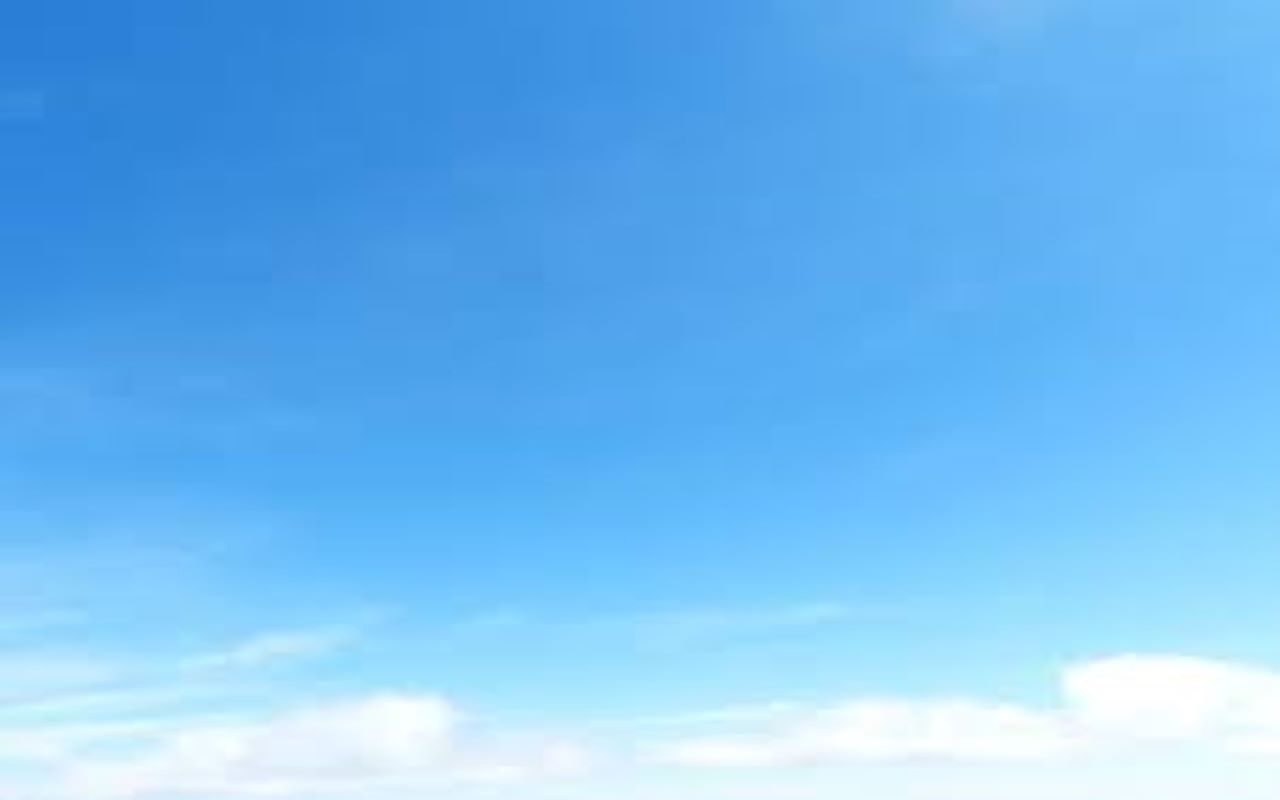
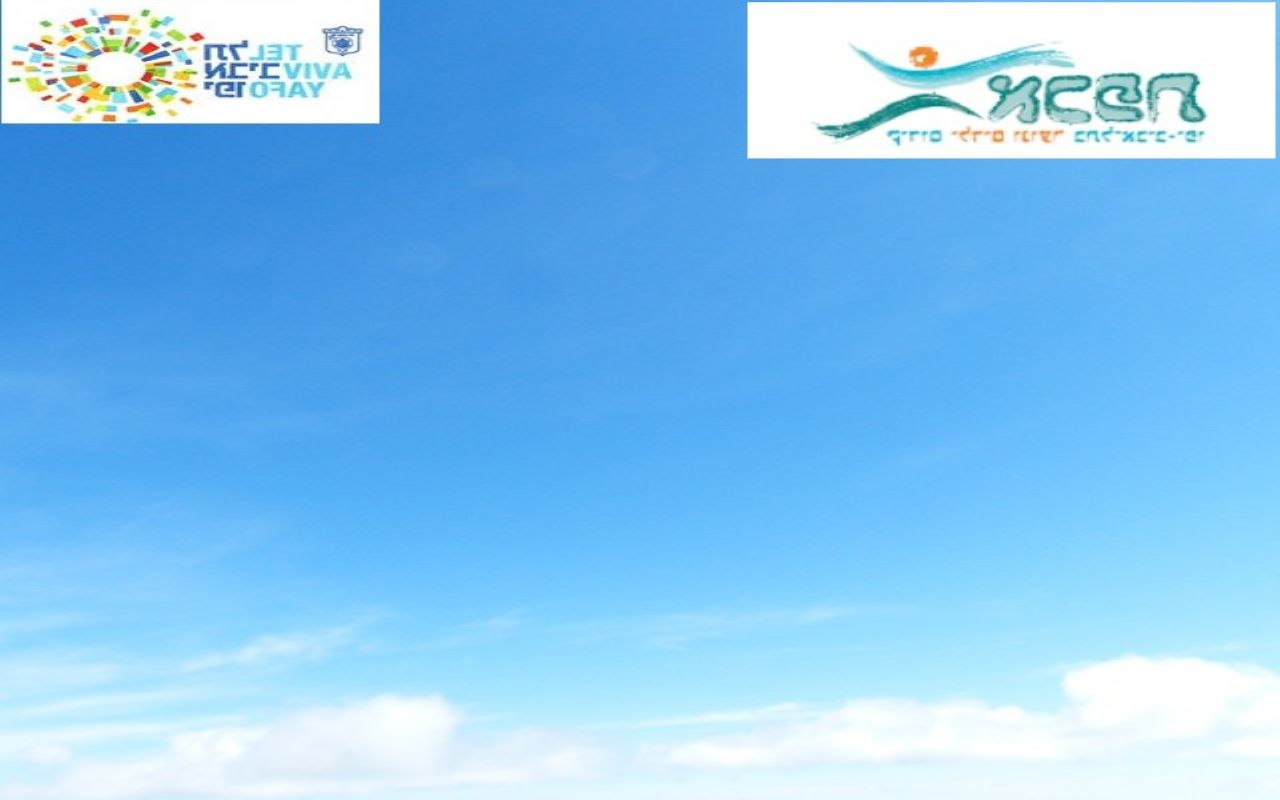
update background

Changed region(s): [[0.5625, 0.0, 1.0, 0.2188], [0.0, 0.0, 0.3125, 0.1562]]

diff --git a/GUI/GUIFile.py b/GUI/GUIFile.py
@@ -1,10 +1,13 @@
-from PyQt5.QtCore import Qt, QUrl
+from PyQt5.QtCore import Qt, QUrl, pyqtSlot
 from PyQt5.QtGui import QIcon
 from PyQt5.QtWidgets import QListWidget, QWidget, QListWidgetItem, QHBoxLayout
+from PyQt5 import QtGui
+import urllib.request as urllib2
+import os
 
 
 class GUIFile(QWidget):
-    def __init__(self,algo):
+    def __init__(self, algo):
         self.algo = algo
         super().__init__()
         self.title = 'מערכת לניהול נווה גולן - תפריט'
@@ -15,7 +18,7 @@ class GUIFile(QWidget):
         self.my_list = QListWidget()
         self.my_list.setAcceptDrops(True)
         self.my_list.setDragEnabled(True)
-        self.setGeometry(300,350,500,300)
+        self.setGeometry(300, 350, 500, 300)
         self.my_list.setViewMode(QListWidget.IconMode)
         self.box = QHBoxLayout()
         self.box.addWidget(self.my_list)
@@ -36,9 +39,21 @@ class GUIFile(QWidget):
             else:
                 widget = QListWidgetItem(QIcon("pythonicon.png"), l[1])
                 self.my_list.insertItem(1, widget)
-        #self.initUI()
+        self.my_list.doubleClicked.connect(self.openDoc)
+        # self.initUI()
 
-    #def initUI(self):
+
+    # def initUI(self):
+    @pyqtSlot()
+    def openDoc(self):
+        temp = 'file:'
+        temp_url = self.getSelectedItem()
+        for l in self.algo.main_system.link:
+            if temp_url in l[1]:
+                os.startfile(l[0])
+                #temp += l[0]
+                #resp = urllib2.urlopen(temp)
+                #resp.read()
 
     def dragEnterEvent(self, event):
         if event.mimeData().hasUrls:
@@ -53,39 +68,41 @@ class GUIFile(QWidget):
         else:
             event.ignore()
 
-    def dropEvent(self,event):
+    def dropEvent(self, event):
         if event.mimeData().hasUrls:
             event.setDropAction(Qt.CopyAction)
             event.accept()
 
             for url in event.mimeData().urls():
                 if url.isLocalFile():
-                    self.algo.main_system.link.append((str(url.toLocalFile()),str(url.fileName())))
+                    self.algo.main_system.link.append((str(url.toLocalFile()), str(url.fileName())))
 
                 else:
-                    self.algo.main_system.link.append((str(url.toString()),str(url.toDisplayString())))
+                    self.algo.main_system.link.append((str(url.toString()), str(url.toDisplayString())))
             self.my_list.clear()
             for l in self.algo.main_system.link:
                 if 'doc' in l[1]:
-                    QListWidgetItem(QIcon("docx.png"), l[1],self.my_list)
-                    #self.my_list.insertItem(1,widget)
+                    QListWidgetItem(QIcon("docx.png"), l[1], self.my_list)
+                    # self.my_list.insertItem(1,widget)
                 elif 'pdf' in l[1]:
-                    QListWidgetItem(QIcon("PDF.png"), l[1],self.my_list)
+                    QListWidgetItem(QIcon("PDF.png"), l[1], self.my_list)
                 elif 'txt' in l[1]:
-                    QListWidgetItem(QIcon("txt.png"), l[1],self.my_list)
+                    QListWidgetItem(QIcon("txt.png"), l[1], self.my_list)
                 elif '.pptx' in l[1]:
-                    QListWidgetItem(QIcon("ppt.png"), l[1],self.my_list)
+                    QListWidgetItem(QIcon("ppt.png"), l[1], self.my_list)
                 elif 'xlsx' in l[1]:
-                    QListWidgetItem(QIcon("xlsx.png"), l[1],self.my_list)
+                    QListWidgetItem(QIcon("xlsx.png"), l[1], self.my_list)
                 else:
                     widget = QListWidgetItem(QIcon("pythonicon.png"), l[1])
                     self.my_list.insertItem(1, widget)
 
         else:
             event.ignore()
+
     def getSelectedItem(self):
         item = QListWidgetItem(self.my_list.currentItem())
         return item.text()
+
     def keyPressEvent(self, e):  # doesnt work when app is in background
         if e.key() == Qt.Key_Delete:
             temp = self.getSelectedItem()
@@ -93,7 +110,14 @@ class GUIFile(QWidget):
                 if temp in l:
                     self.algo.main_system.link.remove(l)
                     self.close()
-                    self.new_window = GUIFile(self.algo)
-                    self.new_window.show()
-                    break
-            print(1)
+            self.new_window = GUIFile(self.algo)
+            self.new_window.show()
+
+    def mouseDoubleClickEvent(self, a0: QtGui.QMouseEvent) -> None:
+        pass
+        '''temp = self.getSelectedItem()
+            for l in self.algo.main_system.link:
+                if temp in l:
+                    wordapp = win32com.client.Dispatch('Word.Application')
+                    wordapp.Visible = debug
+                    document = wordapp.Documents.Open(document_location)'''

diff --git a/GUI/GUI.py b/GUI/GUI.py
@@ -33,58 +33,60 @@ class App(QWidget):
         self.setWindowTitle(self.title)
         self.setGeometry(self.left, self.top, self.width, self.height)
         label = QLabel(self)
-        pixmap = QPixmap('background.jpg')
+        pixmap = QPixmap('background1.jpg')
         label.setPixmap(pixmap)
         self.resize(pixmap.width(), pixmap.height())
+        self.setWindowIcon(QIcon("tel-aviv-logo.jpeg"))
+        self.setFixedSize(self.width, self.height)
 
         button1 = QPushButton('רשימת אנשי צוות', self)
         button1.setGeometry(40, 40, 200, 200)
-        button1.move(100, 70)
+        button1.move(100, 170)
         button1.clicked.connect(self.show_employee)
 
         button2 = QPushButton('רשימת חניכים', self)
         button2.setGeometry(40, 40, 200, 200)
-        button2.move(400, 70)
+        button2.move(300, 170)
         button2.clicked.connect(self.show_student)
 
         button3 = QPushButton('הוסף חניך', self)
         button3.setGeometry(40, 40, 200, 200)
-        button3.move(700, 70)
+        button3.move(500, 170)
         button3.clicked.connect(self.add_student)
 
         button4 = QPushButton('save', self)
         button4.setGeometry(40, 40, 200, 200)
-        button4.move(100, 300)
+        button4.move(100, 370)
         button4.clicked.connect(self.save)
 
         button5 = QPushButton('הוסף איש צוות', self)
         button5.setGeometry(40, 40, 200, 200)
-        button5.move(700, 300)
+        button5.move(500, 370)
         button5.clicked.connect(self.add_employee)
 
         button6 = QPushButton('תפריט', self)
         button6.setGeometry(40, 40, 200, 200)
-        button6.move(400, 300)
+        button6.move(300, 370)
         button6.clicked.connect(self.menu)
 
         button7 = QPushButton('אירועים', self)
         button7.setGeometry(40, 40, 200, 200)
-        button7.move(400, 530)
+        button7.move(300, 570)
         button7.clicked.connect(self.show_event)
 
         button8 = QPushButton('הוסף אירוע', self)
         button8.setGeometry(40, 40, 200, 200)
-        button8.move(700, 530)
+        button8.move(500, 570)
         button8.clicked.connect(self.add_event)
 
         button9 = QPushButton('לוח שנה',self)
         button9.setGeometry(40,40,200,200)
-        button9.move(100,530)
+        button9.move(100,570)
         button9.clicked.connect(self.calander)
 
         button10 = QPushButton('קבצים', self)
         button10.setGeometry(40, 40, 200, 200)
-        button10.move(1000, 70)
+        button10.move(700, 170)
         button10.clicked.connect(self.file)
 
         self.show()

diff --git a/GUI/GUI_Menu.py b/GUI/GUI_Menu.py
@@ -34,43 +34,44 @@ class GUI_Menu(QWidget):
         self.setWindowTitle(self.title)
         self.setGeometry(self.left, self.top, self.width, self.height)
         label = QLabel(self)
-        pixmap = QPixmap('background.jpg')
+        pixmap = QPixmap('background1.jpg')
         label.setPixmap(pixmap)
         self.resize(pixmap.width(), pixmap.height())
+        self.setFixedSize(self.width, self.height)
 
         button = QPushButton('חזרה', self)
         button.setGeometry(40, 40, 200, 200)
-        button.move(100, 70)
+        button.move(100, 170)
         button.clicked.connect(self.back)
 
         button1 = QPushButton('חיפוש חניך', self)
         button1.setGeometry(40, 40, 200, 200)
-        button1.move(400, 70)
+        button1.move(300, 170)
         button1.clicked.connect(self.search_student)
 
         button2 = QPushButton('חיפוש איש צוות', self)
         button2.setGeometry(40, 40, 200, 200)
-        button2.move(700, 70)
+        button2.move(500, 170)
         button2.clicked.connect(self.search_employee)
 
         button3 = QPushButton('סינון', self)
         button3.setGeometry(40, 40, 200, 200)
-        button3.move(100, 300)
+        button3.move(100, 370)
         button3.clicked.connect(self.filtering)
 
         button4 = QPushButton('ערוך סטודנט', self)
         button4.setGeometry(40, 40, 200, 200)
-        button4.move(400, 300)
+        button4.move(300, 370)
         button4.clicked.connect(self.edit_student)
 
         button5 = QPushButton('ערוך איש צוות', self)
         button5.setGeometry(40, 40, 200, 200)
-        button5.move(700, 300)
+        button5.move(500, 370)
         button5.clicked.connect(self.edit_employee)
 
         button6 = QPushButton('ערוך אירוע', self)
         button6.setGeometry(40, 40, 200, 200)
-        button6.move(400, 530)
+        button6.move(300, 570)
         button6.clicked.connect(self.edit_event)
 
     @pyqtSlot()

diff --git a/GUI/GUIEditEvent.py b/GUI/GUIEditEvent.py
@@ -23,6 +23,8 @@ class GUIEditEvent(QWidget):
         pixmap = QPixmap('background.jpg')
         label.setPixmap(pixmap)
         self.resize(pixmap.width(), pixmap.height())
+        self.setFixedSize(self.width, self.height)
+
 
         button1 = QPushButton('חזרה', self)
         button1.setGeometry(40, 40, 200, 200)

diff --git a/GUI/GUIEditEmployee.py b/GUI/GUIEditEmployee.py
@@ -14,6 +14,7 @@ class GUIEditEmployee(QDialog):
     def initUI(self):
         self.setWindowTitle(self.title)
         self.resize(251, 296)
+
         self.formLayout = QFormLayout()
 
         self.label = QLabel()
